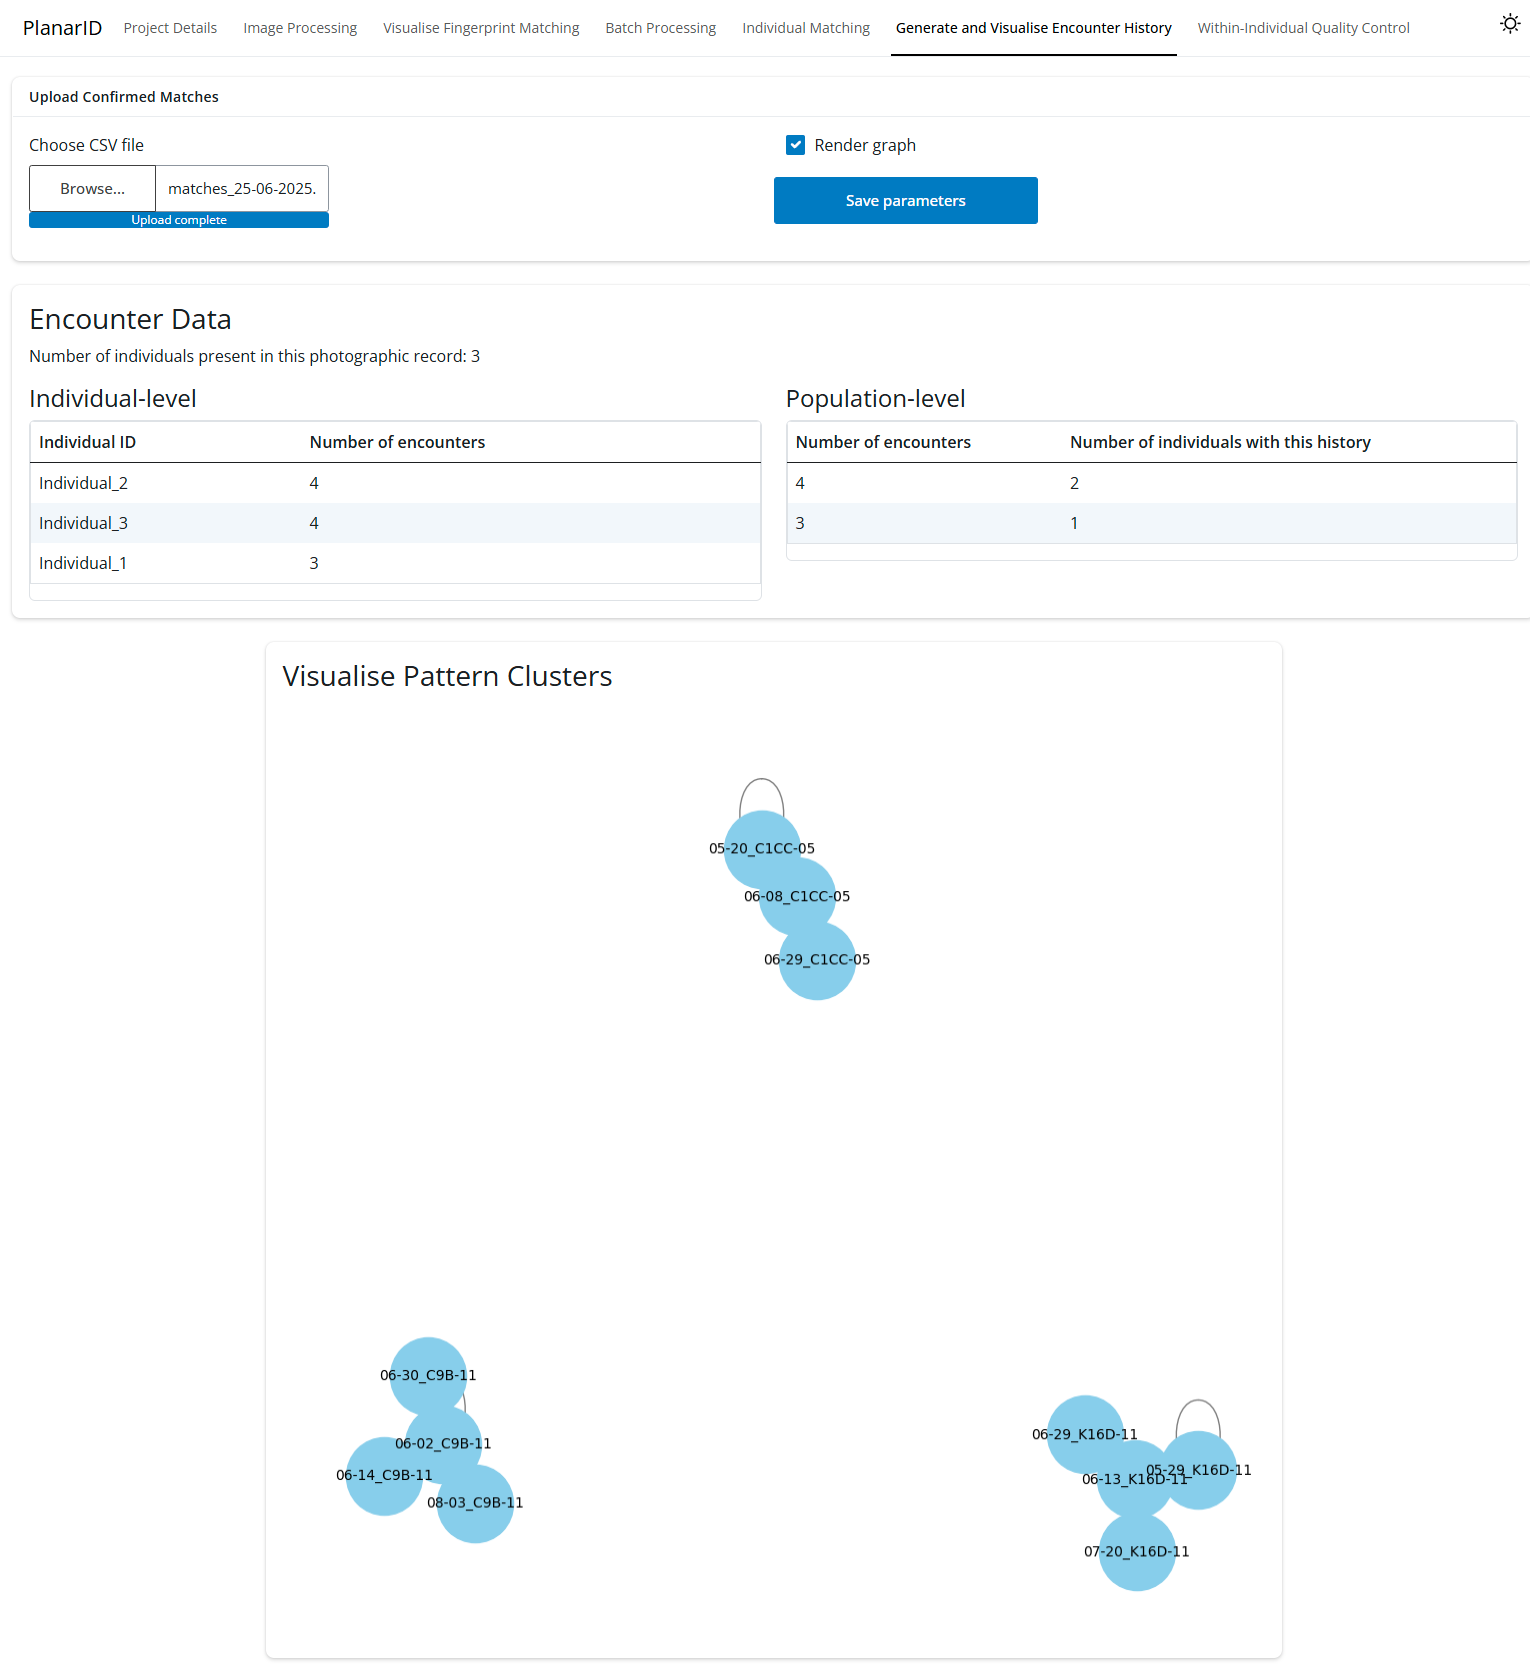
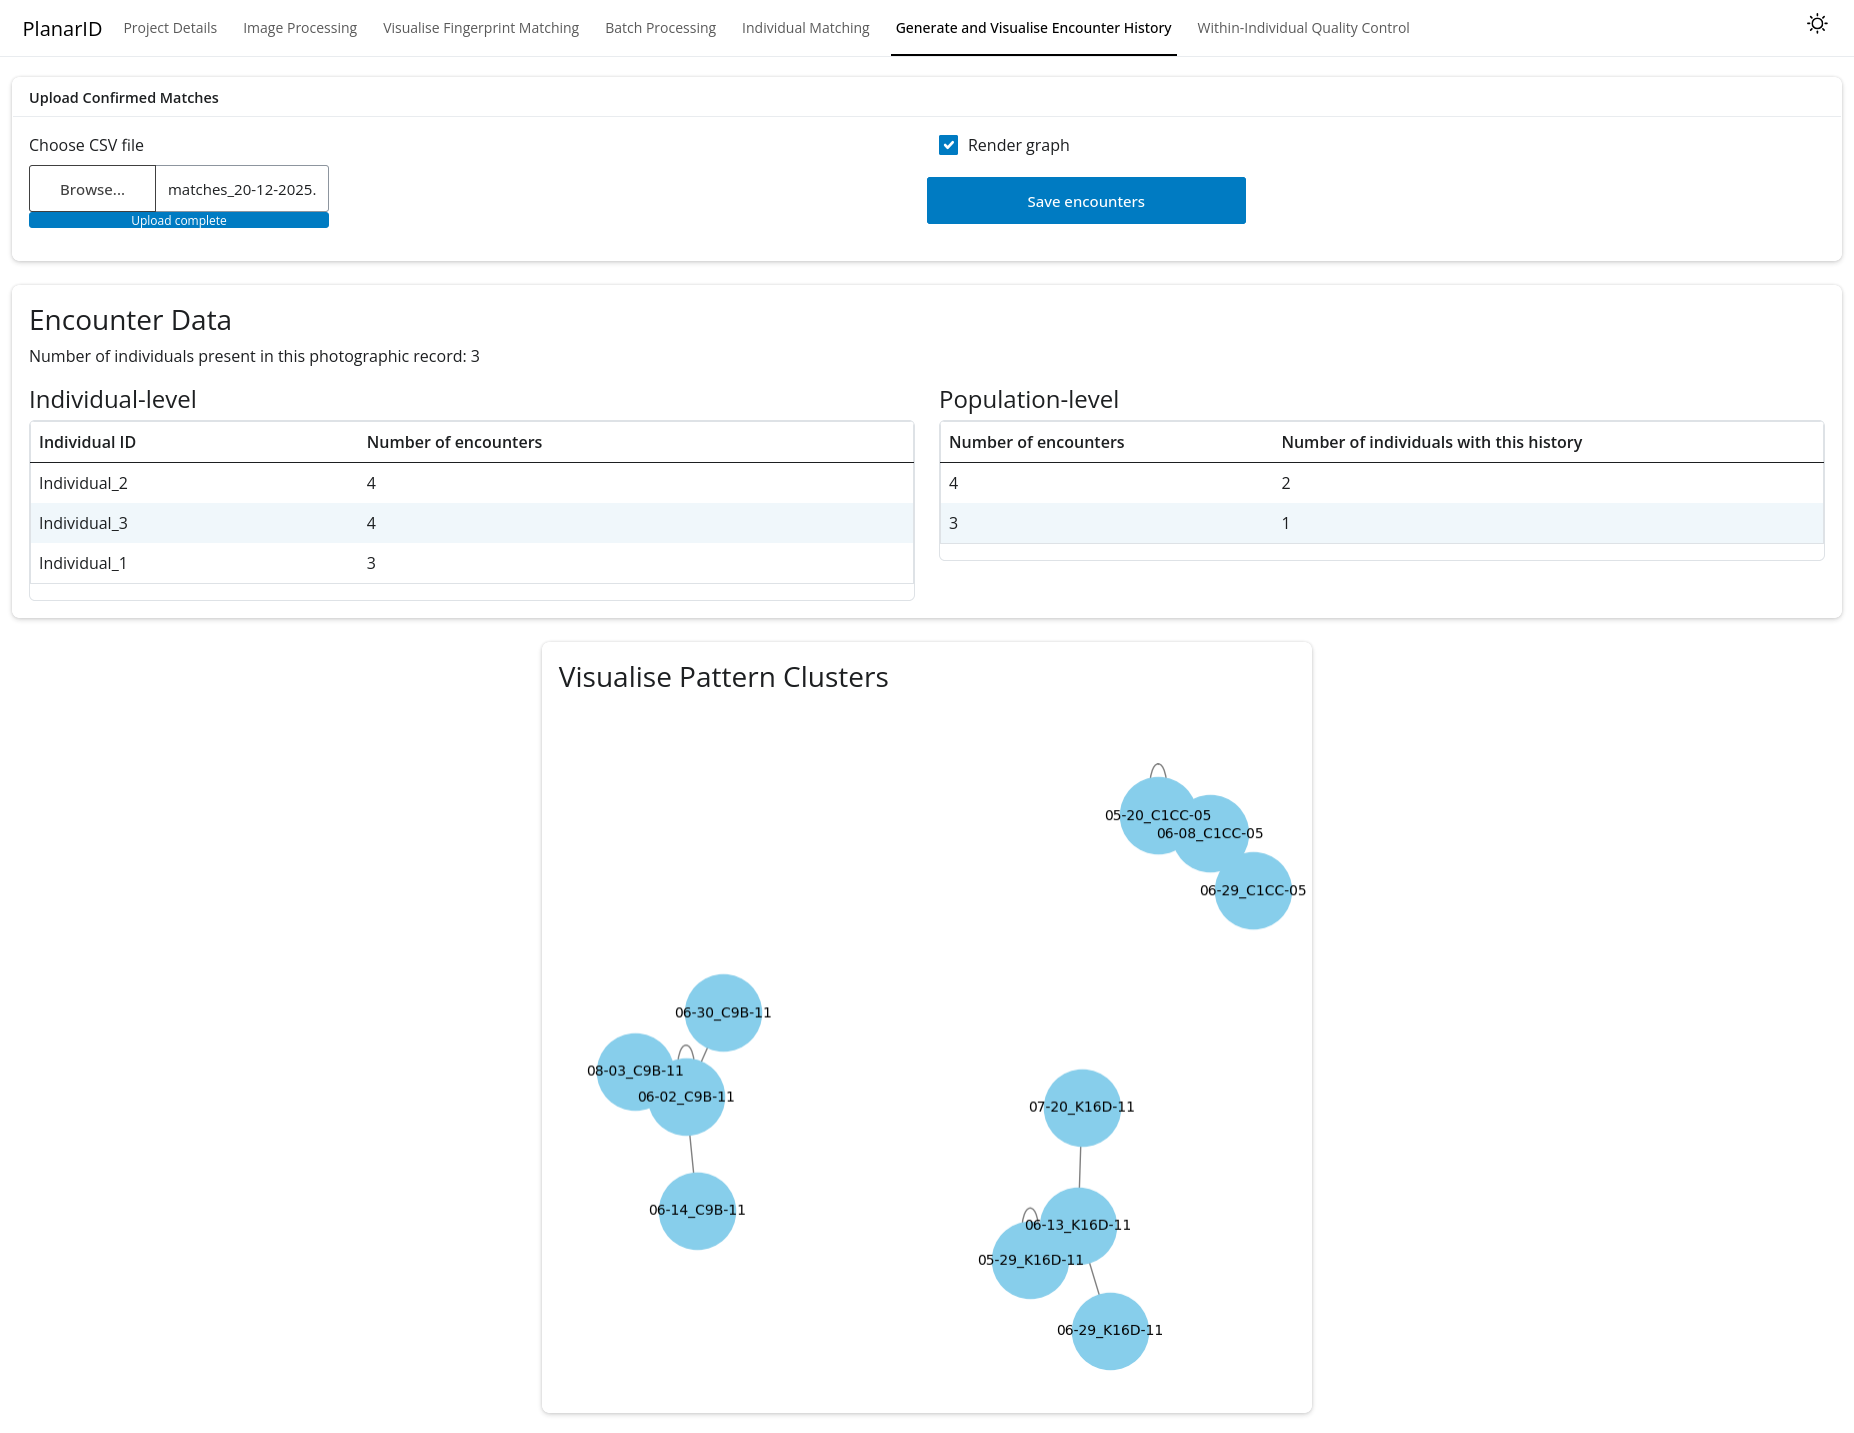
changed  one app image and changed headers in tutorial

diff --git a/tutorial/tutorial.md b/tutorial/tutorial.md
@@ -3,7 +3,7 @@
 For a practical guide on how to analyse a photographic record, we have included a selection of images of our study species
 the burying beetle, *Nicrophorus vespilloides*. The tutorial photographic record contains 22 photos of three individuals (Figure 1), 
 imaged on ten different dates. These photos have been appropriately named with the ```[date]_[within-week name]_[example]``` 
-format. The`.csv` (`tutorial_df`) contains information about individual sex, within-week names, date of "capture" and
+format. The `.csv` (`tutorial_df`) contains information about individual sex, within-week names, date of "capture" and
 body size. These data have been provided to mimic realistic capture data - size and sex data
 
 Together, this is everything we need to get started identifying individuals in a photographic record.
@@ -73,10 +73,10 @@ directory can be explored.
 
 <br>
 
-## Add the photographic record to the directory
+## Add the example data to the project directory
 
 Once the project directory has been made, we can copy and paste our tutorial images into the `unprocessed_photos` folder 
-in the `Tutorial` directory.
+in the `Tutorial` directory. We also need to drop the `tutorial_df.csv` into the `data` folder in the `Tutorial` directory.
 
 ## Point the shiny app at the current directory
 
@@ -242,7 +242,7 @@ photographic record.</figcaption>
 The output of clicking `No matches here` or `This is a match` is a file called `matches_YYYY-MM-DD.csv` which is a growing 
 compendium of individuals' aliases in the photographic record. 
 
-# Export encounter history
+## Export encounter history
 
 The list of aliases can be converted to a census history directly within PlanarID by passing the `matches_YYYY-MM-DD.csv`
 to the  to the **Generate and Visualise Encounter History** (Figure 6) tool and hitting `Save encounters`. The resulting
@@ -258,15 +258,37 @@ The `matches_YYYY-MM-DD.csv` can also be easily processed in R or Python.
   <figcaption align="center">Figure 6: A final convenience tool to convert manually-determined matches to an interpretable census history.</figcaption>
 </p>
 
+This page assigns incremental names to individuals as they appear and are identified in the photographic record. The naming
+scheme is simply `Individual_[N]`. The `.csv` output lists every occasion on which an individual was present, with their
+alias in that sampling occasion included (Table 4).
+
 <br>
+
+<p align="left"><em>Table 4: A neatly formatted census-style recapture history that can be passed to mark-recapture analysis packages in R.</em></p>
+
+| individual   | alias| encounter_occasion|
+|:-------------|:-----|:-----|
+| Individual_1 |06-08_C1CC-05|06_08|
+| Individual_2 |06-13_K16D-11|06_13|
+| Individual_3 |06-14_C9B-11|06-14|
+| Individual_1 |06-29_C1CC-05|06-29|
+| Individual_2 |06-29_K15D-11|06-29|
+| ...          |...|...|
+| Individual_1 |05-20_C1CC-05|05-20|
+
+<br>
+
+## Closing the app
 
 To close the app, click on the terminal in the IDE and hit CTRL+C to quit.
 
 
-## Example image segmentation and fingerprinting
+# Example image segmentation and fingerprinting
 
 Different systems and patterns require different parameter values to segment for fingerprinting. Below, I include some 
 example parameter values for different kinds of backgrounds/patterns that we may want to process.
+
+## Black and green butterflies
 
 A butterfly with black and green wings wings, against a light, beige background of sand. Image sourced from 
 [here](https://www.pickpik.com/green-malachite-butterfly-green-niagara-butterfly-conservatory-exotic-insect-wildlife-black-67926).
@@ -317,6 +339,7 @@ and light patches that are similar to background colours.</em></p>
 
 <br>
 
+## Red, black, and white butterflies
 A butterfly with white and red markings on black wings, against a neutral woody-brown background. Image sourced from
 [here](https://en.wikipedia.org/wiki/Vanessa_atalanta#/media/File:Red_admiral_(Vanessa_atalanta)_Hungary.jpg).
 Extracting a bold colour like red is relatively straightforward using HSV values (listed below; Fig. 7). There are 4 distinct
@@ -367,6 +390,7 @@ bold red patches against distinct background colours.</em></p>
 
 <br>
 
+## Burying beetles
 A burying beetle with discrete orange colour patches on a black body, against a blue background. Image sourced from our
 testing population. Segmenting orange patterns from blue and black is almost trivial (Parameters outlined in Fig. 8).
 `threshold_value` is returned to the default greyscale value of 50. We expect 4 discrete patches in this species, so
